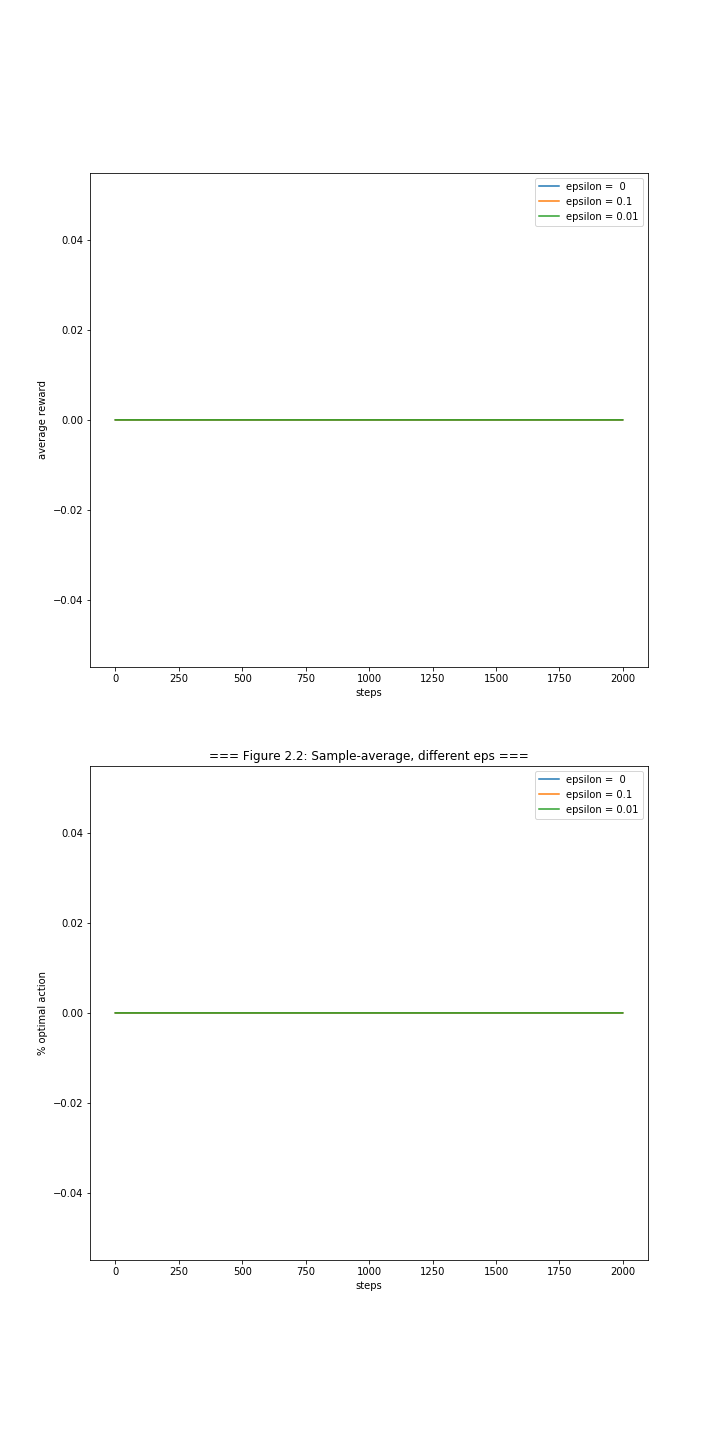
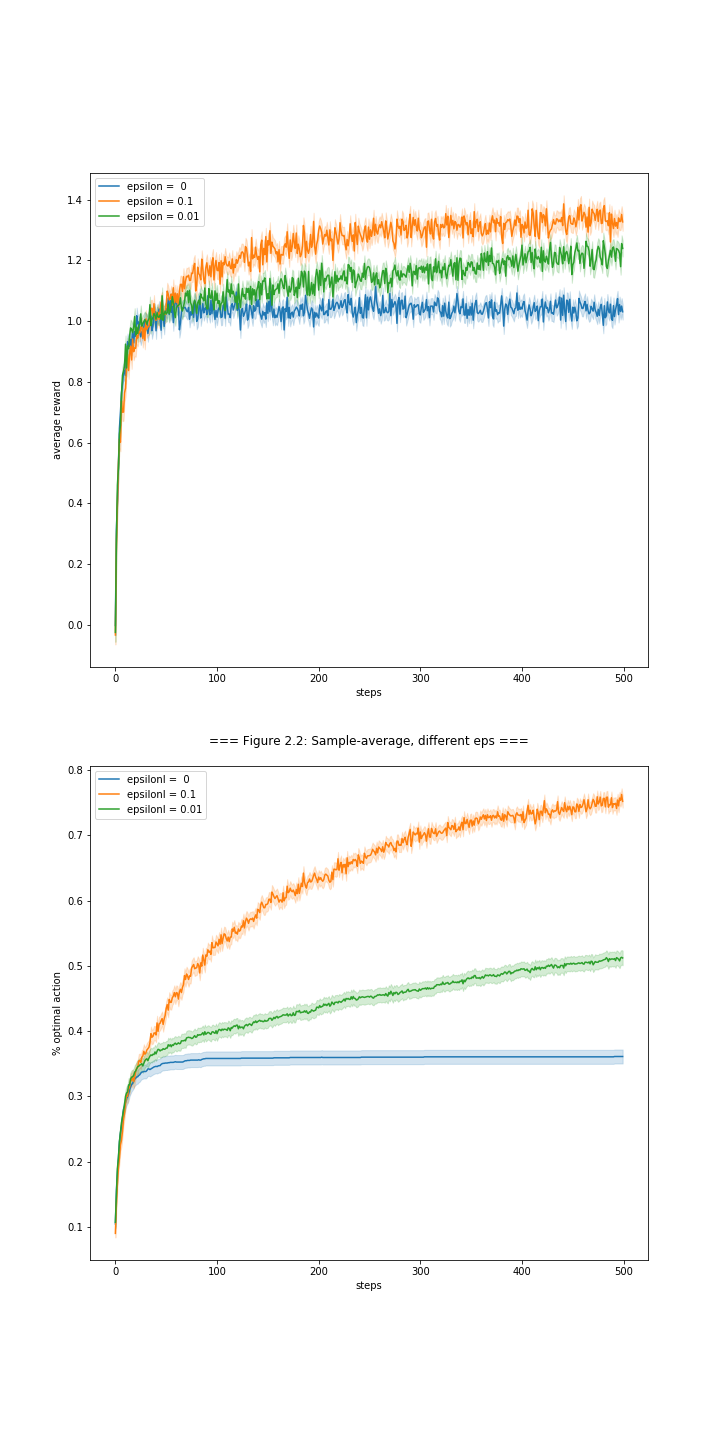
Chap02: Add more parallel comparisions + Meta version
1. Compare serial, ray, apply_async, map, imap more easily
2. Serialize all bandit*reps to reduce overhead (NOTE the order issue!!!)

diff --git a/chapter02/ten_armed_testbed_HH.py b/chapter02/ten_armed_testbed_HH.py
@@ -20,6 +20,10 @@ import multiprocessing as mp
 #matplotlib.use('Agg')  # Agg -> non-GUI backend. HH
 # matplotlib.use('qt5agg')  # We can see the figure by qt5. HH
 
+global_runs = 2000
+global_times = 2000  # To cope with the one-argument limitation of map/imap
+
+
 class Bandit:
     # @k_arm: # of arms
     # @epsilon: probability for exploration in epsilon-greedy algorithm
@@ -140,14 +144,14 @@ class Bandit:
         return reward
 
 # Make one-run independent    
-def one_run(time, bandit):
+def one_run(bandit, times=global_times):   # I put "bandit" at the first place because map/imap_xxx only receive one argument.
     
     # Perform one run
     bandit.reset()
-    rewards_this_run = np.zeros(time)
-    best_action_counts_this_run = np.zeros(time)
+    rewards_this_run = np.zeros(times)
+    best_action_counts_this_run = np.zeros(times)
     
-    for t in range(time):
+    for t in range(times):
         
         # act, step
         #???
@@ -160,6 +164,11 @@ def one_run(time, bandit):
         rewards_this_run[t]= reward
         best_action_counts_this_run[t] = action == bandit.best_action
         #???
+        
+    '''        
+    # Add a random delay to test the order
+    time.sleep(np.random.rand()/100)
+    '''
     
     return rewards_this_run, best_action_counts_this_run
 
@@ -179,50 +188,130 @@ def to_iterator_ray(obj_ids):
         yield ray.get(done[0])   # Return the recent done id, trigger the tdqm progressbar, and continue to wait
 
 def simulate(runs, times, bandits):   # Run stimulations. Return best_action_counts and total rewards. HH
-    rewards = np.zeros((len(bandits), runs, times))
-    best_action_counts = np.zeros(rewards.shape)
     
-    for i, bandit in enumerate(bandits):
-        
-        # print(' Model %g: eps = %5.2g, init = %5s, Sample-aver = %5s, UCB = %5s, GA = %5s, GA_base = %5s, step_size = %5g '\
-        #       % (i+1, bandit.epsilon, bandit.initial, bandit.sample_averages, bandit.UCB_param, \
-        #          bandit.gradient, bandit.gradient_baseline, bandit.step_size))  # HH
+    # Generate meta_bandits
+    meta_bandits = bandits * runs
+    meta_runs = len(meta_bandits)
+    
+    rewards = np.zeros((meta_runs, times))
+    best_action_counts = np.zeros(rewards.shape)
+
+    
+    # print(' Model %g: eps = %5.2g, init = %5s, Sample-aver = %5s, UCB = %5s, GA = %5s, GA_base = %5s, step_size = %5g '\
+    #       % (i+1, bandit.epsilon, bandit.initial, bandit.sample_averages, bandit.UCB_param, \
+    #          bandit.gradient, bandit.gradient_baseline, bandit.step_size))  # HH
+    
+    '''
+    A good comparison:
+        https://kirk86.github.io/2017/08/python-multiprocessing/        
+    '''
+    
+    if 'serial' in methods:
+    
+        start = time.time()
+        for r,bandit in tqdm(enumerate(meta_bandits),  total = meta_runs, desc='serial'):     # trange: progress bar. HH
+            rewards[r], best_action_counts[r] = one_run(bandit, times) 
+            
+        print('--- serial finished in %g s ---\n' % (time.time()-start))
+            
+    if 'ray' in methods:
         
         start = time.time()
-        if method == 'Serial':
+        #  bandit_id = ray.put(bandit)   # A little improvement. I use meta bandit here, so bandit are not the same
+        #  result_ids = [one_run_ray.remote(bandit_id, times) for r in range(meta_runs)]
+        result_ids = [one_run_ray.remote(bandit, times) for bandit in meta_bandits]
         
-            for r in trange(runs):     # trange: progress bar. HH
-                rewards[i,r], best_action_counts[i,r] = one_run(times, bandit) 
-                
-        elif method == 'ray':
-            
-            bandit_id = ray.put(bandit)
-            result_ids = [one_run_ray.remote(times,bandit_id) for r in range(runs)]
-            
-            # --- Use tqdm for ray ---
-            # Note here tqdm is actully tqdm(module).tqdm(func)
-            # And tqdm is a DECORATOR!!!
-            # for j,x in zip(range(runs), tqdm(to_iterator_ray(result_ids), total=len(result_ids))):
-            #     rewards[i,j], best_action_counts[i,j] = x  # Put it in results. It works!!!
-                # But tdqm is very easy to get bugged...
-            
-            # --- Manual progress_bar for ray ---
-            # Use result_ids ("future") to refer each ray.remote
-            len_finished = 0
-            
-            while result_ids: 
-                len_finished +=1
-                done_id, result_ids = ray.wait(result_ids)   # Once anyone is done. Note that done_id here has only one object because result_ids is shrinking.
-                rewards[i,len_finished-1], best_action_counts[i,len_finished-1] = ray.get(done_id[0])  # Put it in results
-                aver_speed = len_finished / (time.time() - start)                                
-                print('\r', '%g / %g, Aver: %.2f iters/s' % (len_finished, runs, aver_speed), end='')  # Print progress
-            
-        elif method == 'apply_sync':
-            result_ids = [pool.apply_async(one_run, args=(times, bandit)) for r in range(runs)]
-            result_ids = [p.get() for p in result_ids]
+        ''' If you want keep order, you cannot plot progressbar !!! '''
+        # Get results altogether
+        outputs = ray.get(result_ids) 
+        
+        for n, output in enumerate(outputs):
+            rewards[n], best_action_counts[n] = output  # Put it in results
+
+        ''' If use ray.wait(), cannot keep order!!! '''
+        ''' Because Temporally unordered !!! '''
+
+        # --- Use tqdm for ray ---
+        # But tdqm is very easy to get bugged...
+        # Note here tqdm is actully tqdm(module).tqdm(func)
+        # And tqdm is a DECORATOR!!!
+        # for j,x in zip(range(runs), tqdm(to_iterator_ray(result_ids), total=len(result_ids))):
+        #     rewards[i,j], best_action_counts[i,j] = x  # Put it in results. It works!!!
+           
+        
+        # --- Manual progress_bar for ray ---
+        # Use result_ids ("future") to refer each ray.remote
+        
+        # len_finished = 0
+        
+        
+        # while result_ids: 
+        #     len_finished +=1
+        #     done_id, result_ids = ray.wait(result_ids)   # Once anyone is done. Note that done_id here has only one object because result_ids is shrinking.
+        #     # rewards[i,len_finished-1], best_action_counts[i,len_finished-1] = ray.get(done_id[0])  # Put it in results
+        #     rewards[len_finished-1], best_action_counts[len_finished-1] = ray.get(done_id[0])  # Put it in results
+
+        #     aver_speed = len_finished / (time.time() - start)                                
+        #     print('\r', 'ray: %g / %g, Aver = %.2f iters/s' % (len_finished, meta_runs, aver_speed), end='')  # Print progress
+
+        print('\n--- ray finished in %g s ---\n' % (time.time()-start), flush=True)
+
+        
+    if 'apply_async' in methods:    
+        ''' Temporally unordered, but spatially still ordered !!! '''
+        ''' Faster than ray, but unable to do the progress bar'''
+
+        start = time.time()
+       
+        result_ids = [pool.apply_async(one_run, args=(bandit, times)) for bandit in meta_bandits]
+        outputs = [p.get() for p in result_ids]
+        
+        for n, output in enumerate(outputs):
+            rewards[n], best_action_counts[n] = output  # Put it in results
+        print('\n--- apply_async finished in %g s--- \n' % (time.time()-start), flush=True)
+
+
+    if 'map' in methods:    
+        ''' Order is kept'''
+        
+        start = time.time()
+        # all_this_bandits = [bandit for _ in range(runs)]  # To be "chunked"
+        result_ids = pool.map(one_run, meta_bandits, chunksize = 1)   # Chunksize = 1 is fastest.
+        
+        for n, output in enumerate(result_ids):
+            rewards[n], best_action_counts[n] = output  # Put it in results
+        
+        print('\n--- map finished in %g s--- \n' % (time.time()-start), flush=True)
 
             
-        print('\nModel %g: %s finished in %g s' % (i+1, method,time.time()-start))
+    if 'imap' in methods:    
+        ''' Order is kept'''
+        
+        ''' Similar to apply_async, but have the flexibility of processing on-fly'''
+        ''' Seems that this is perfect!!! '''
+        
+        start = time.time()
+        #  all_this_bandits = [bandit for _ in range(runs)]  # To be "chunked"
+        result_ids = pool.imap(one_run, meta_bandits, chunksize = 1)   # Chunksize = 1 is fastest.
+        
+        # Note that only imap_unordered / imap can show this progress bar. (allow getting partial results) !!!
+        for n, output in tqdm(enumerate(result_ids), total = meta_runs, desc='imap'):
+            rewards[n], best_action_counts[n] = output  # Put it in results
+            
+        print('\n--- imap finished in %g s--- \n' % (time.time()-start), flush=True)
+        
+        
+    '''Turn meta_bandits to bandits * runs'''   
+    '''    
+    To keep order, ray cannot use ray.wait() (no progressbar), imap_unordered should be changed to imap!!!
+    '''
+    
+    # Note the axis order
+    rewards = rewards.reshape((runs, len(bandits), -1))
+    rewards = rewards.swapaxes(0,1)
+    
+    best_action_counts = best_action_counts.reshape((runs, len(bandits), -1))
+    best_action_counts = best_action_counts.swapaxes(0,1)
                     
     # Calculate mean_best_action_counts and reward. HH
     #???                
@@ -250,9 +339,9 @@ def figure_2_1():
 
 def figure_2_2(runs=2000, time=1000):
     
-    title_txt = '=== Figure 2.2: Sample-average, different eps ==='
-    print(title_txt)
-    
+    title_txt = '\n=== Figure 2.2: Sample-average, different eps ===\n'
+    print(title_txt, flush = True)
+        
     epsilons = [0, 0.1, 0.01]
     
     # Generate a series of Bandit objects using different eps. HH
@@ -465,23 +554,33 @@ def exercise_2_11():
 
 if __name__ == '__main__':
     
-    # method = 'Serial'
-    method = 'ray'  
-    # method = 'apply_sync'
+ 
+    n_worker = mp.cpu_count()
     
-    if method == 'ray':
+    
+    ''' Only map/imap can keep order!!! '''
+    methods = [
+        'serial',
+        'ray',
+        'apply_async',
+        'map',
+        'imap',
+        ]
+    
+    if 'ray' in methods:
         ray.shutdown()
-        ray.init(num_cpus = 16)
-    elif method == 'apply_sync':
-        pool = mp.Pool(processes = 16)
+        ray.init(num_cpus = n_worker)
+    
+    if any([x in methods for x in ('apply_async','map','imap_unordered','imap')]):
+        pool = mp.Pool(processes = n_worker)
         
     
-#    figure_2_1()
-    # figure_2_2(2000, 2000)
-#    figure_2_3(2000,2000)
-    # figure_2_4(2000,2000)
-    # figure_2_5(2000,2000)
-    figure_2_6(2000, 1000)
+    # figure_2_1
+    # figure_2_2(global_runs, global_times)
+    figure_2_3(global_runs, global_times)
+    # figure_2_4(global_runs,global_times)
+    # figure_2_5(global_runs,global_times)
+    # figure_2_6(global_runs, global_times)
     
     exercise_2_5()
     exercise_2_11()
